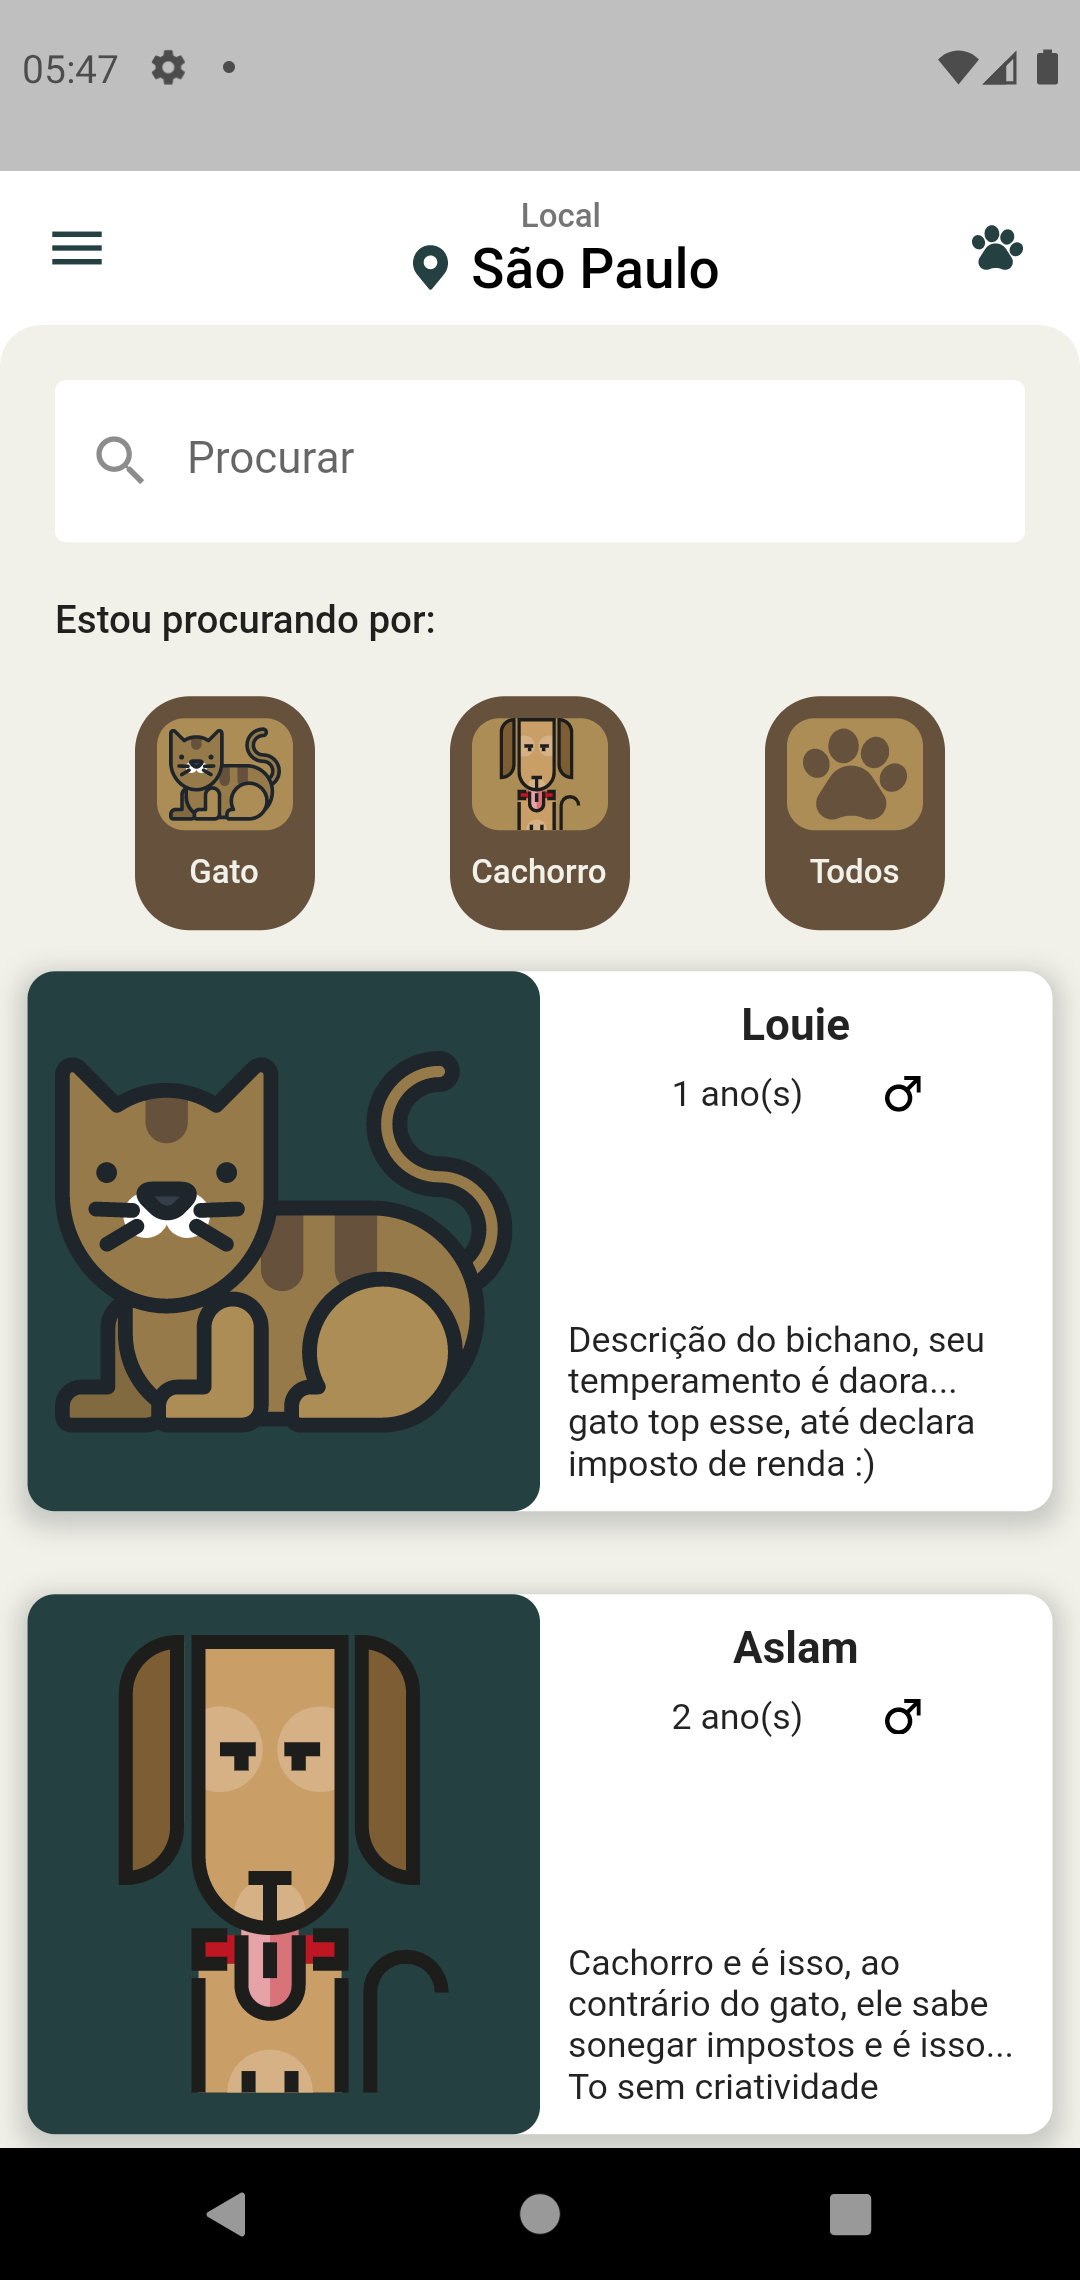
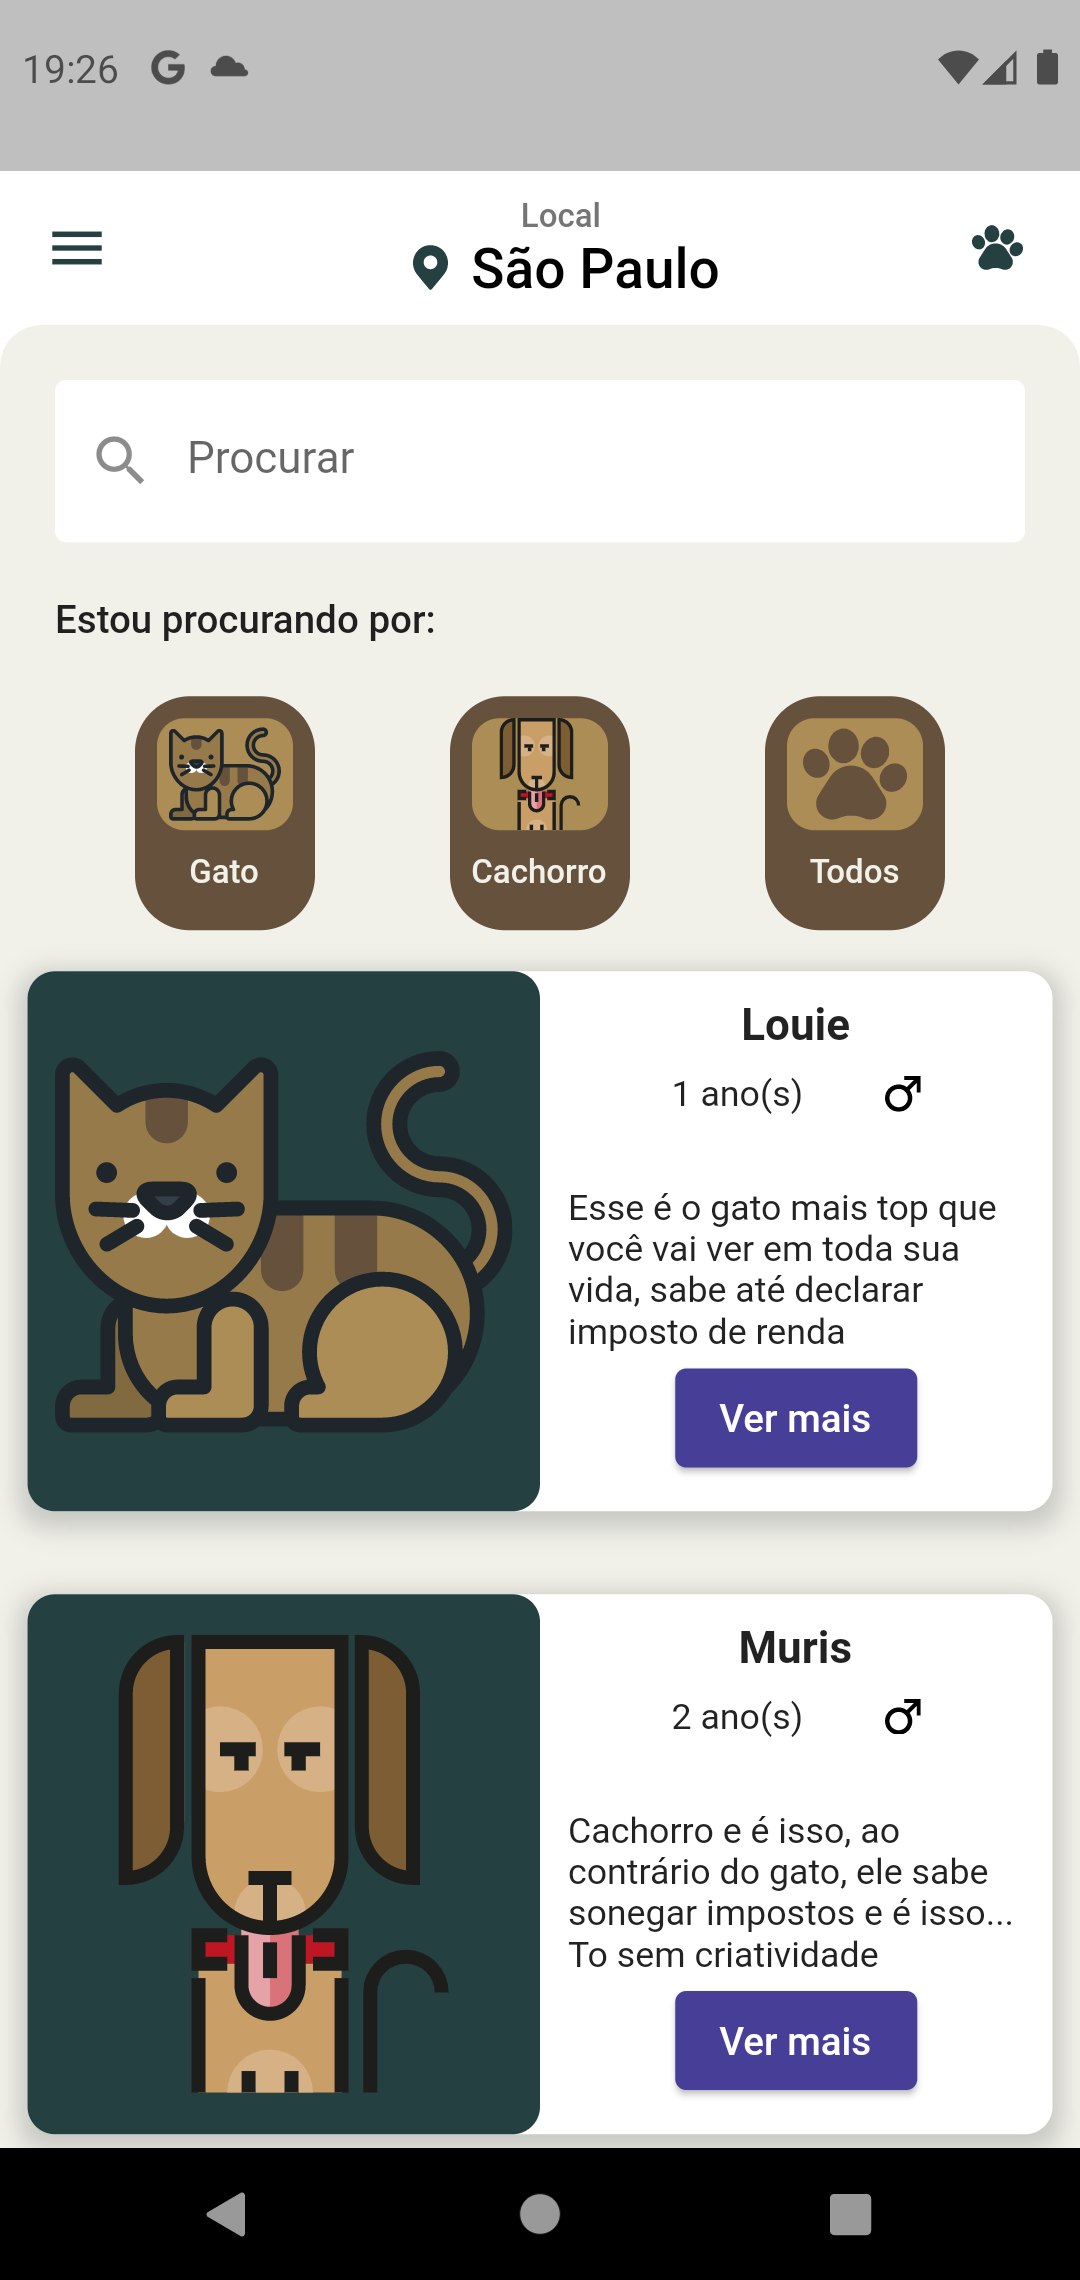
Configuracao inicial para adicionar um pet

diff --git a/lib/pages/add_pet.dart b/lib/pages/add_pet.dart
@@ -1,6 +1,10 @@
+import 'package:adotei/animal.dart';
 import 'package:adotei/custom_colors.dart';
+import 'package:adotei/custom_icons.dart';
 import 'package:adotei/gender.dart';
+import 'package:adotei/model/animal.dart';
 import 'package:flutter/material.dart';
+import 'package:flutter_svg/flutter_svg.dart';
 
 class AddPet extends StatefulWidget {
   const AddPet({Key? key}) : super(key: key);
@@ -16,30 +20,32 @@ class _AddPetState extends State<AddPet> {
 
   String? errorText;
 
-  int age = 1;
-  bool get minorAge => age == 1;
+  int _age = 1;
+  bool get minorAge => _age == 1;
 
   void addAge() {
     setState(() {
-      age++;
-      ageController.text = '$age anos';
+      _age++;
+      ageController.text = '$_age anos';
     });
   }
 
   void decreaseAge() {
     setState(() {
-      age--;
-      ageController.text = '$age anos';
+      _age--;
+      ageController.text = '$_age anos';
     });
   }
 
   @override
   void initState() {
     super.initState();
-    ageController.text = '$age anos';
+    ageController.text = '$_age anos';
   }
 
-  Gender? _gender = Gender.male;
+  Gender? _gender;
+  Animal? _animal;
+  String? textButton = 'Classificação';
 
   @override
   Widget build(BuildContext context) {
@@ -72,6 +78,102 @@ class _AddPetState extends State<AddPet> {
             padding: const EdgeInsets.all(20),
             children: [
               buildTextField('Nome', 10, 1, nameController),
+              ElevatedButton(
+                onPressed: () {
+                  showDialog(
+                    context: context,
+                    builder: (context) => AlertDialog(
+                      title: Row(
+                        children: [
+                          SvgPicture.asset(
+                            CustomIcons.pawprint,
+                            width: 20,
+                          ),
+                          const SizedBox(
+                            width: 10,
+                          ),
+                          const Text('Selecione o pet')
+                        ],
+                      ),
+                      content: StatefulBuilder(
+                        builder: (context, setState) {
+                          return Column(
+                            mainAxisSize: MainAxisSize.min,
+                            children: [
+                              Row(
+                                children: [
+                                  Radio<Animal>(
+                                    activeColor: CustomColors.darkBrown,
+                                    value: Animal.cat,
+                                    groupValue: _animal,
+                                    onChanged: (Animal? value) {
+                                      setState(() {
+                                        _animal = value;
+                                      });
+                                    },
+                                  ),
+                                  const Text('Gato')
+                                ],
+                              ),
+                              Row(
+                                children: [
+                                  Radio<Animal>(
+                                    activeColor: CustomColors.darkBrown,
+                                    value: Animal.dog,
+                                    groupValue: _animal,
+                                    onChanged: (Animal? value) {
+                                      setState(() {
+                                        _animal = value;
+                                      });
+                                    },
+                                  ),
+                                  const Text('Cachorro')
+                                ],
+                              ),
+                            ],
+                          );
+                        },
+                      ),
+                      actions: [
+                        TextButton(
+                          onPressed: () {
+                            setState(() {
+                              Navigator.pop(context);
+                              switch (_animal) {
+                                case (Animal.cat):
+                                  textButton = 'Gato';
+                                  break;
+                                case (Animal.dog):
+                                  textButton = 'Cachorro';
+                                  break;
+                                default:
+                                  textButton = 'Classificação';
+                                  break;
+                              }
+                            });
+                          },
+                          child: const Text('Ok'),
+                        ),
+                        TextButton(
+                          onPressed: () {
+                            Navigator.pop(context);
+                          },
+                          child: const Text('Cancelar'),
+                        ),
+                      ],
+                      elevation: 24,
+                    ),
+                  );
+                },
+                child: Padding(
+                  padding: const EdgeInsets.all(16.0),
+                  child: Text('$textButton'),
+                ),
+                style: ElevatedButton.styleFrom(primary: CustomColors.green),
+              ),
+              const SizedBox(
+                height: 15,
+              ),
               Row(
                 children: [
                   const Text('Idade'),
@@ -160,6 +262,9 @@ class _AddPetState extends State<AddPet> {
                 child: ElevatedButton(
                   onPressed: () {
                     String name = nameController.text;
+                    String animal;
+                    int age = _age;
+                    String gender;
                     String description = descriptionController.text;
 
                     if (name.isEmpty || description.isEmpty) {
@@ -171,6 +276,33 @@ class _AddPetState extends State<AddPet> {
                     setState(() {
                       errorText = null;
                     });
+
+                    switch (_animal) {
+                      case (Animal.cat):
+                        animal = 'Gato';
+                        break;
+                      case (Animal.dog):
+                        animal = 'Cachorro';
+                        break;
+                      default:
+                        animal = 'Indefinido';
+                        break;
+                    }
+
+                    if (_gender == Gender.male) {
+                      gender = 'Macho';
+                    } else {
+                      gender = 'Fêmea';
+                    }
+
+                    MyAnimal myanimal = MyAnimal(
+                      id: 1,
+                      animal: animal,
+                      name: name,
+                      age: age,
+                      gender: gender,
+                      description: description,
+                    );
                   },
                   child: const Padding(
                     padding: EdgeInsets.all(15.0),

diff --git a/lib/widgets/list_item.dart b/lib/widgets/list_item.dart
@@ -6,14 +6,14 @@ import 'package:flutter/material.dart';
 import 'package:flutter_svg/flutter_svg.dart';
 
 class ListItem extends StatefulWidget {
-  ListItem(
-      {Key? key,
-      required this.animal,
-      required this.name,
-      required this.age,
-      required this.gender,
-      required this.description})
-      : super(key: key);
+  const ListItem({
+    Key? key,
+    required this.animal,
+    required this.name,
+    required this.age,
+    required this.gender,
+    required this.description,
+  }) : super(key: key);
   final Animal animal;
   final String name;
   final int age;
@@ -65,7 +65,7 @@ class _ListItemState extends State<ListItem> {
                 color: Colors.grey.withOpacity(0.5),
                 spreadRadius: 3,
                 blurRadius: 7,
-                offset: Offset(0, 3),
+                offset: const Offset(0, 3),
               )
             ],
           ),
@@ -125,6 +125,15 @@ class _ListItemState extends State<ListItem> {
                           fontSize: 13,
                         ),
                       ),
+                      ElevatedButton(
+                        onPressed: () {
+                          Navigator.of(context).pushNamed('/pet');
+                        },
+                        child: const Text('Ver mais'),
+                        style: ElevatedButton.styleFrom(
+                          primary: CustomColors.blue,
+                        ),
+                      )
                     ],
                   ),
                 ),

diff --git a/lib/pages/home_page.dart b/lib/pages/home_page.dart
@@ -114,19 +114,18 @@ class _HomePageState extends State<HomePage> {
             ),
             Flexible(
               child: ListView(
-                //padding: const EdgeInsets.symmetric(vertical: 10),
-                children: [
+                children: const [
                   ListItem(
                     animal: Animal.cat,
                     name: 'Louie',
                     age: 1,
                     gender: Gender.male,
                     description:
-                        'Descrição do bichano, seu temperamento é daora... gato top esse, até declara imposto de renda :)',
+                        'Esse é o gato mais top que você vai ver em toda sua vida, sabe até declarar imposto de renda',
                   ),
                   ListItem(
                     animal: Animal.dog,
-                    name: 'Aslam',
+                    name: 'Muris',
                     age: 2,
                     gender: Gender.male,
                     description:

diff --git a/lib/main.dart b/lib/main.dart
@@ -1,6 +1,7 @@
 import 'package:adotei/pages/about.dart';
 import 'package:adotei/pages/add_pet.dart';
 import 'package:adotei/pages/home_page.dart';
+import 'package:adotei/pages/pet.dart';
 import 'package:flutter/material.dart';
 
 void main() => runApp(const MyApp());
@@ -17,7 +18,18 @@ class MyApp extends StatelessWidget {
       routes: {
         '/': (context) => const HomePage(),
         '/add': (context) => const AddPet(),
+        '/pet': (context) => const Pet(),
         '/about': (context) => const About(),
+      },
+      onGenerateRoute: (setting) {
+        switch (setting.name) {
+          case '/add':
+            return MaterialPageRoute(builder: (context) => const AddPet());
+          case '/pet':
+            return MaterialPageRoute(builder: (context) => const Pet());
+          default:
+            return MaterialPageRoute(builder: (context) => const HomePage());
+        }
       },
     );
   }

diff --git a/lib/pages/pet.dart b/lib/pages/pet.dart
@@ -1,0 +1,26 @@
+import 'package:adotei/custom_colors.dart';
+import 'package:flutter/material.dart';
+
+class Pet extends StatelessWidget {
+  const Pet({Key? key}) : super(key: key);
+
+  @override
+  Widget build(BuildContext context) {
+    return Scaffold(
+      appBar: AppBar(
+        elevation: 0,
+        backgroundColor: CustomColors.white,
+        iconTheme: const IconThemeData(color: CustomColors.green),
+      ),
+      backgroundColor: CustomColors.white,
+      body: Container(
+        decoration: const BoxDecoration(
+            borderRadius: BorderRadius.only(
+              topLeft: Radius.circular(15),
+              topRight: Radius.circular(15),
+            ),
+            color: CustomColors.background),
+      ),
+    );
+  }
+}

diff --git a/lib/custom_colors.dart b/lib/custom_colors.dart
@@ -9,13 +9,4 @@ class CustomColors {
 
   static const Color brown = Color(0xffad8d56);
   static const Color darkBrown = Color(0xff65513c);
-
-  static const Color iris = Color(0xff454ade);
-  static const Color spaceCadet = Color(0xff1b1f3b);
-  static const Color mediumOrchid = Color(0xffb1a4ed);
-  static const Color frenchMauve = Color(0xffc874d9);
-  static const Color cameoPink = Color(0xffe1bbc9);
-  static const Color deepTaupe = Color(0xff88665d);
-  static const Color eggPlant = Color(0xff6d435a);
-  static const Color blackCoffee = Color(0xff352d39);
 }

diff --git a/lib/pages/about.dart b/lib/pages/about.dart
@@ -2,7 +2,6 @@ import 'package:adotei/custom_colors.dart';
 import 'package:adotei/custom_icons.dart';
 import 'package:adotei/widgets/list_about.dart';
 import 'package:flutter/material.dart';
-import 'package:flutter_svg/flutter_svg.dart';
 
 class About extends StatelessWidget {
   const About({Key? key}) : super(key: key);

diff --git a/lib/model/animal.dart b/lib/model/animal.dart
@@ -1,0 +1,17 @@
+class MyAnimal {
+  int id;
+  String animal;
+  String name;
+  int age;
+  String gender;
+  String description;
+
+  MyAnimal({
+    required this.id,
+    required this.animal,
+    required this.name,
+    required this.age,
+    required this.gender,
+    required this.description,
+  });
+}

diff --git a/README.md b/README.md
@@ -4,10 +4,12 @@
 ![Homepage](https://raw.githubusercontent.com/JoshGodoyyy/Adotei/master/screenshots/Main.png)
 
 ### Drawer
-![Homepage](https://raw.githubusercontent.com/JoshGodoyyy/Adotei/master/screenshots/Drawer.png)
+![Drawer](https://raw.githubusercontent.com/JoshGodoyyy/Adotei/master/screenshots/Drawer.png)
 
 ### Novo Pet
-![Homepage](https://raw.githubusercontent.com/JoshGodoyyy/Adotei/master/screenshots/New.png)
+![NewPet](https://raw.githubusercontent.com/JoshGodoyyy/Adotei/master/screenshots/New.png)
+### Classificação Pet
+![ClassificationPet](https://raw.githubusercontent.com/JoshGodoyyy/Adotei/master/screenshots/SelectPet.png)
 
 ### Sobre
-![Homepage](https://raw.githubusercontent.com/JoshGodoyyy/Adotei/master/screenshots/About.png)
+![About](https://raw.githubusercontent.com/JoshGodoyyy/Adotei/master/screenshots/About.png)
